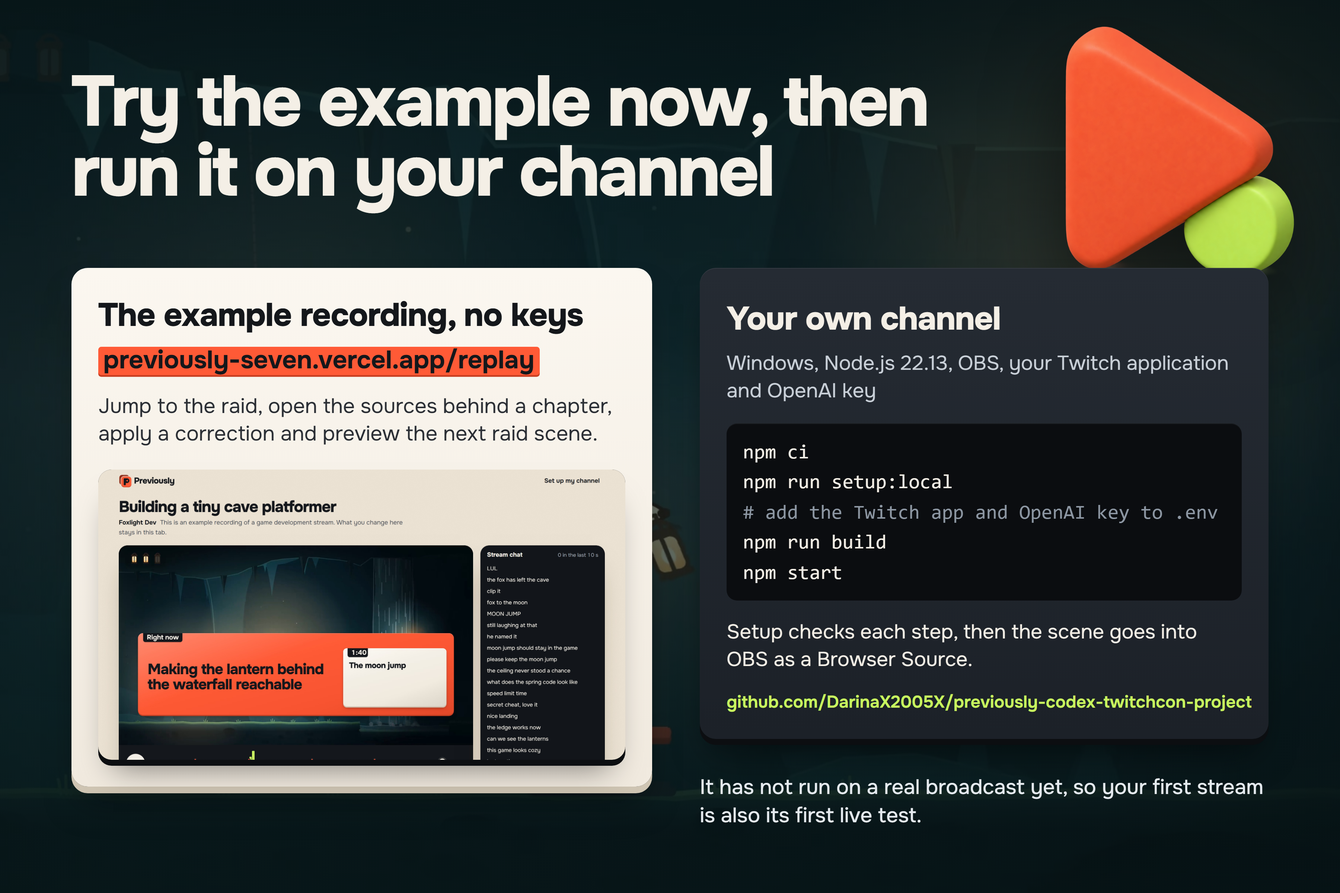
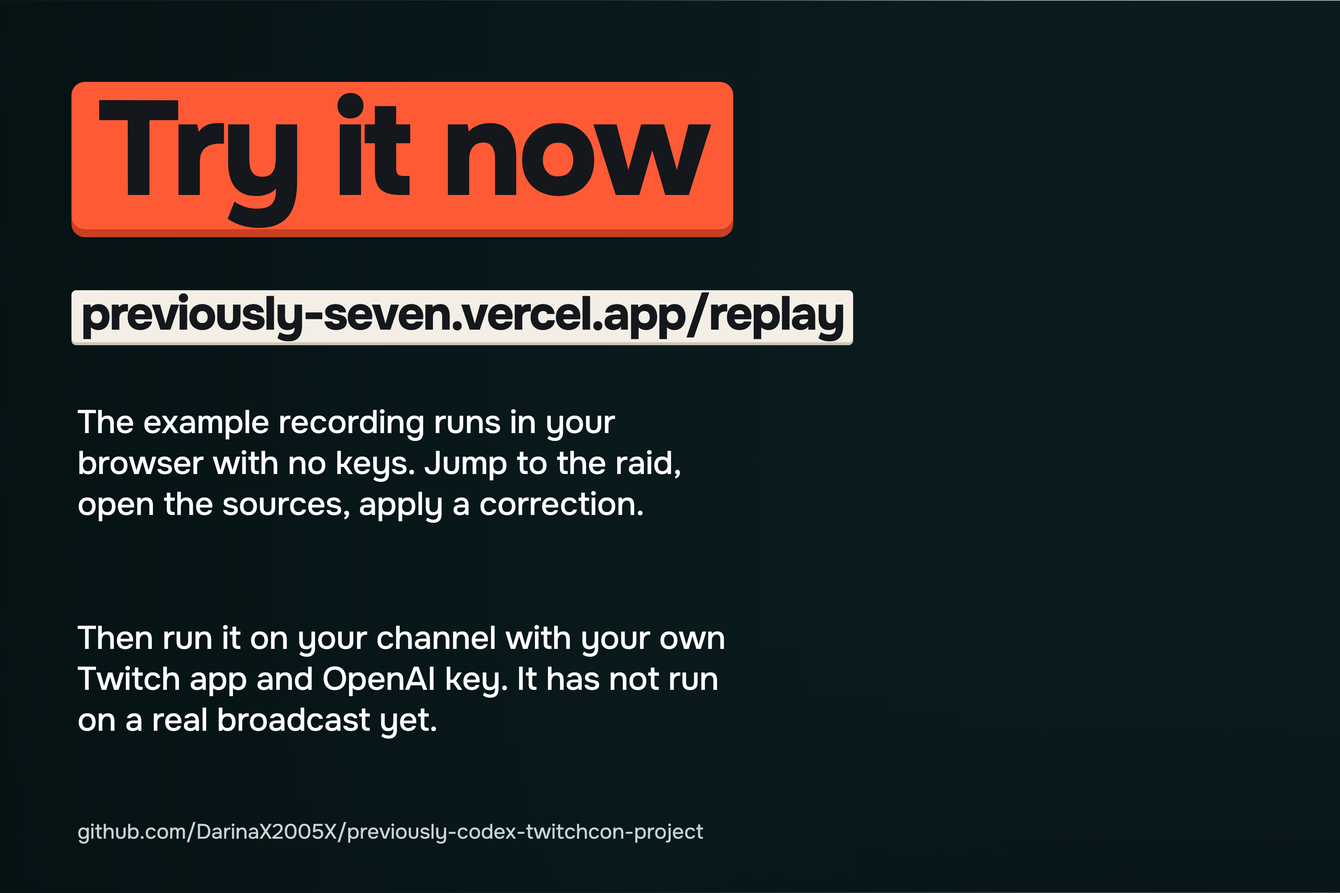
Gallery rebuilt in the cover's world: footage behind, big plates, little text

diff --git a/docs/gallery/source/deck.html b/docs/gallery/source/deck.html
@@ -139,6 +139,35 @@ img { display: block; }
   linear-gradient(160deg, #1D252B 0%, #14191E 55%, #0F1317 100%); }
 .ctl.p { background: var(--paper); color: var(--ink); box-shadow: 0 5px 0 var(--paper-side); }
 .mlabel { transform: translateX(-50%); font-size: 26px; white-space: nowrap; }
+
+.cw { background: #0B1C1F; color: var(--paper); }
+.cw .bg { position: absolute; left: 0; top: 0; width: 1800px; height: 1200px; object-fit: cover; }
+.cw .shade { position: absolute; inset: 0; }
+.pv, .pc, .pl, .pk { display: inline-block; font-weight: 800; letter-spacing: -.035em; line-height: .98; padding: .02em .2em .1em; border-radius: .1em; }
+.pv { background: var(--verm); color: var(--ink); box-shadow: 0 .06em 0 var(--verm-side); }
+.pc { background: var(--paper); color: var(--ink); box-shadow: 0 .06em 0 var(--paper-side); }
+.pl { background: var(--lime); color: var(--ink); box-shadow: 0 .06em 0 var(--lime-side); }
+.pk { background: var(--paper); color: var(--ink); font-size: 40px; margin-right: 14px; box-shadow: 0 .1em 0 var(--paper-side); }
+.lead.w { color: #FFFFFF; font-size: 44px; line-height: 1.25; font-weight: 500; }
+.foot { color: #C9D6D8; font-size: 28px; font-weight: 450; }
+.chatl { list-style: none; margin-top: 22px; display: grid; gap: 12px; font-size: 40px; font-weight: 650; line-height: 1.1; color: var(--ink); }
+.you { display: inline-block; background: #20262D; color: #C9D0D8; font-size: 36px; padding: 12px 22px 14px; border-radius: 14px; }
+.you b { color: var(--lime); }
+.wall { display: flex; flex-wrap: wrap; gap: 26px 22px; }
+.wall span { display: inline-block; background: var(--paper); color: var(--ink); font-weight: 800; font-size: 76px; letter-spacing: -.03em; line-height: 1; padding: 8px 20px 14px; border-radius: 12px; box-shadow: 0 6px 0 var(--paper-side); }
+.wall span[lang="ja"] { font-family: 'Yu Gothic', sans-serif; font-weight: 700; letter-spacing: 0; }
+.wall span[lang="ko"] { font-family: 'Malgun Gothic', sans-serif; font-weight: 700; letter-spacing: 0; }
+.wall span[lang="zh"] { font-family: 'Microsoft YaHei', sans-serif; font-weight: 700; letter-spacing: 0; }
+.strow { background: linear-gradient(180deg,#2A2F36,#1F242A); border-radius: 18px; padding: 22px 30px 26px; font-size: 52px; font-weight: 750; letter-spacing: -.02em; color: #F4EFE6; text-decoration: line-through; text-decoration-color: var(--verm); text-decoration-thickness: 8px; box-shadow: 0 7px 0 #07080A; }
+.tc { background: var(--ink); color: var(--paper); font-weight: 800; font-size: 40px; padding: 6px 16px 10px; border-radius: 10px; z-index: 3; }
+.num { font-variant-numeric: tabular-nums; }
+.tl { position: absolute; top: 40px; height: 120px; border-radius: 14px; display: flex; align-items: center; padding: 0 16px; overflow: hidden; box-shadow: 0 7px 0 rgba(0,0,0,.25); }
+.tl span { font-size: 30px; font-weight: 750; letter-spacing: -.01em; line-height: 1.05; }
+.tl-k { background: var(--ink); color: var(--paper); }
+.tl-v { background: var(--verm); color: var(--ink); }
+.tl-p { background: #FFFFFF; color: var(--ink); box-shadow: 0 7px 0 var(--paper-side); }
+.tl-l { background: var(--lime); color: var(--ink); }
+.tlt { position: absolute; top: 172px; font-size: 26px; font-weight: 650; color: var(--muted-paper); font-variant-numeric: tabular-nums; }
 </style>
 </head>
 <body>
@@ -162,33 +191,24 @@ img { display: block; }
 </section>
 
 <!-- ============ 01 LATE ARRIVALS ============ -->
-<section class="slide cv-teal" id="late-arrivals" data-out="01-late-arrivals">
-  <img class="abs obj" src="assets/art/bubble.png" style="left:860px; top:50px; width:960px;">
-  <div class="abs h1" style="left:96px; top:96px; width:900px; font-size:128px; color:#FFFFFF;">What did I&nbsp;miss?</div>
-  <div class="abs lead" style="left:100px; top:440px; width:640px; color:#FFFFFF; font-weight:500;">A raid drops a whole audience into the middle of a stream. They missed the jokes, the bugs and why chat keeps typing MOON JUMP.</div>
-  <div class="abs body" style="left:100px; top:760px; width:600px; color:#E3F3EF;">The streamer can stop to explain or keep playing and leave them lost. Previously answers for them: on stream, in chat and on a page.</div>
-  <div class="card" style="left:900px; top:640px; width:540px; padding:28px 30px 24px; transform: rotate(-2deg); box-shadow: 0 9px 0 var(--paper-side), 0 60px 90px -24px rgba(3,24,26,.7);">
-    <div style="display:flex; align-items:center; justify-content:space-between; gap:16px;">
-      <span style="font-size:28px; font-weight:700; color:var(--ink);">Chat at 1:40</span>
-      <span class="plate l" style="font-size:26px; font-weight:800; padding:6px 12px 8px; border-radius:9px;">45 messages in 10 s</span>
-    </div>
-    <ol style="list-style:none; margin-top:20px; display:grid; gap:11px; font-size:30px; line-height:1.15; font-weight:550; color:var(--ink);">
-      <li>MOON JUMP</li><li>he's gone</li><li>fox to the moon</li><li>the fox has left the cave</li><li>MOON JUMP MOON JUMP</li><li>where did he go</li>
-      <li style="color:var(--muted-paper);">and 39 more</li>
-    </ol>
+<section class="slide cw" id="late-arrivals" data-out="01-late-arrivals">
+  <img class="bg" src="../../../public/demo/foxlight/clip-moon.jpg" style="left:300px; width:1700px; height:1200px;">
+  <div class="shade" style="background: linear-gradient(90deg, rgba(6,18,20,.96) 0%, rgba(8,24,27,.85) 38%, rgba(8,24,27,.15) 66%, rgba(8,24,27,0) 80%), linear-gradient(0deg, rgba(6,18,20,.6), transparent 30%);"></div>
+  <div class="abs" style="left:96px; top:110px;"><span class="pv" style="font-size:180px;">What did</span><br><span class="pc" style="font-size:180px; margin-top:22px;">I miss?</span></div>
+  <div class="abs lead w" style="left:104px; top:640px; width:720px;">A raid drops a whole audience into the middle of the stream. Chat is typing a joke they were not there for.</div>
+  <div class="card" style="left:1130px; top:330px; width:600px; padding:30px 34px 26px; transform: rotate(3deg);">
+    <div style="display:flex; justify-content:space-between; align-items:center;"><span style="font-size:32px; font-weight:800;">Chat at 1:40</span><span class="pl" style="font-size:30px;">45 in 10 s</span></div>
+    <ol class="chatl"><li>MOON JUMP</li><li>he's gone</li><li>fox to the moon</li><li>MOON JUMP MOON JUMP</li><li>where did he go</li></ol>
   </div>
-  <div class="frame" style="left:1440px; top:880px; width:400px; height:225px; transform: rotate(3deg);"><img src="../../../public/demo/foxlight/clip-moon.jpg"></div>
-  <div class="abs small" style="left:100px; top:1090px; width:700px; color:#E3F3EF;">The moon jump in our example recording of Foxlight, a small game we made</div>
+  <div class="abs foot" style="left:104px; top:1100px;">The example recording, written around Foxlight, a small game we made</div>
 </section>
 
 <!-- ============ 02 RAID SCENE ============ -->
-<section class="slide cv-lime" id="raid-scene" data-out="02-raid-scene">
-  <div class="abs h1" style="left:96px; top:84px; width:1000px; font-size:100px;">Every raid gets its own <span class="plate k">Previously&nbsp;on</span></div>
-  <img class="abs obj" src="assets/art/megaphone.png" style="left:1250px; top:40px; width:520px; filter: drop-shadow(0 40px 50px rgba(40,60,0,.45));">
-  <div class="frame" style="left:96px; top:390px; width:1180px; height:664px; transform: rotate(-1.5deg); box-shadow: 0 14px 0 #07080A, 0 80px 120px -40px rgba(40,60,0,.7);"><img src="assets/scene/moon.jpg"></div>
-  <div class="icard" style="left:1330px; top:560px; width:374px; padding:34px 28px 26px; transform: rotate(2deg);"><span class="stab" style="background:var(--lime);">Raid at 7:10</span><p style="font-size:44px; font-weight:800; letter-spacing:-.02em; line-height:1.05;">pixelmoth</p><p style="font-size:30px; margin-top:8px; color:#C9D0D8;">37 viewers arrive</p></div>
-  <div class="abs body" style="left:1334px; top:800px; width:380px; color:var(--ink);">The scene starts the moment the raid lands, built from chapters already published, with the stream's own clips.</div>
-  <div class="abs small" style="left:100px; top:1100px; width:1180px; color:#2E3A12;">The example recording's raid scene. Its chat and raid are written for the demo; the clips are real footage of Foxlight, our small game.</div>
+<section class="slide cw" id="raid-scene" data-out="02-raid-scene">
+  <img class="bg" src="assets/scene/moon.jpg" style="left:0; top:120px; width:1800px; height:1013px;">
+  <div class="shade" style="background: linear-gradient(180deg, rgba(6,18,20,.97) 0%, rgba(6,18,20,.85) 22%, rgba(6,18,20,0) 46%), linear-gradient(0deg, rgba(6,18,20,.9), transparent 12%);"></div>
+  <div class="abs" style="left:96px; top:70px;"><span class="pc" style="font-size:132px;">Every raid gets its own</span><br><span class="pv" style="font-size:132px; margin-top:18px;">Previously on</span></div>
+  <div class="abs foot" style="left:104px; top:1140px;">The real raid scene from the example recording: the moon jump clip, its caption and chat's reaction</div>
 </section>
 
 <!-- ============ 03 SCENE SEQUENCE ============ -->
@@ -204,168 +224,117 @@ img { display: block; }
     </div>
     <div class="holes b"></div>
   </div>
-  <div class="abs small muted-paper" style="left:100px; top:1030px; width:1600px;">Hard cuts between the chapter clips, each with its caption. The example's recap runs 44 seconds; streamers choose up to 30 seconds, 1 minute or 2 minutes.</div>
+  
+
+  <div class="abs" style="left:0; top:900px; width:1800px; height:240px;"><div class="tl tl-v" style="left:114px; width:104px;"><span>Intro</span></div><div class="tl tl-p" style="left:224px; width:341px;"><span>Fox learns to jump</span></div><div class="tl tl-p" style="left:571px; width:378px;"><span>The moon jump</span></div><div class="tl tl-p" style="left:955px; width:341px;"><span>Spring gets a speed limit</span></div><div class="tl tl-v" style="left:1302px; width:323px;"><span>Right now</span></div><div class="tl tl-l" style="left:1631px; width:67px;"><span></span></div><span class="abs" style="left:1481px; top:0; font-size:28px; font-weight:750; color:var(--ink);">!previously</span><span class="tlt" style="left:96px;">0:00</span><span class="tlt" style="left:461px;">0:10</span><span class="tlt" style="left:827px;">0:20</span><span class="tlt" style="left:1192px;">0:30</span><span class="tlt" style="left:1558px;">0:40</span></div>
+  <div class="abs small muted-paper" style="left:100px; top:1140px; width:1600px;">The example's whole recap, 44 seconds. Streamers choose up to 30 seconds, 1 minute or 2 minutes.</div>
 </section>
 
 <!-- ============ 04 CHAT COMMAND ============ -->
-<section class="slide cv-night" id="chat-command" data-out="04-chat-command">
-  <img class="abs obj" src="assets/art/keycap.png" style="left:20px; top:640px; width:600px;">
-  <div class="abs h1" style="left:96px; top:96px; width:820px; font-size:96px;">Anyone who joins late can type <span class="plate l">!previously</span></div>
-  <div class="abs lead" style="left:100px; top:430px; width:740px; color:#E6EBF0;">Chat gets the latest chapters, what is happening now and a link to the recap page.</div>
-  <div class="frame" style="left:930px; top:110px; width:770px; height:853px; border-radius:34px; transform: rotate(2deg); box-shadow: 0 14px 0 #07080A, 0 60px 90px -30px rgba(0,0,0,.7), 0 0 0 2px rgba(255,255,255,.06);"><img src="assets/app/landing-chat.png" style="object-fit:cover; object-position: top;"></div>
-  <div class="abs body" style="left:940px; top:1010px; width:760px; color:#E6EBF0;"><b style="color:var(--lime);">!lore moon jump</b> explains a joke only when its origin is in the sources.</div>
+<section class="slide cw" id="chat-command" data-out="04-chat-command">
+  <img class="bg" src="assets/game/game-jump.jpg">
+  <div class="shade" style="background: linear-gradient(90deg, rgba(6,18,20,.95) 0%, rgba(6,18,20,.8) 50%, rgba(6,18,20,.55) 100%);"></div>
+  <div class="abs" style="left:96px; top:110px;"><span class="pc" style="font-size:120px;">Late? Type</span><br><span class="pl" style="font-size:180px; margin-top:20px;">!previously</span></div>
+  <div class="abs lead w" style="left:104px; top:640px; width:780px;">The bot answers in chat with the latest chapters, what is happening now and a link to the recap.</div>
+  <div class="abs" style="left:960px; top:560px; width:750px;">
+    <div class="you">you <b>!lore moon jump</b></div>
+    <div class="card" style="position:relative; padding:30px 34px; margin-top:20px;"><p style="margin:0; font-size:38px; line-height:1.3; color:var(--ink);"><b style="color:var(--verm-side);">Foxlight Dev</b> moon jump: When the spring had no speed limit, it launched the fox through the ceiling, and chat named it the moon jump.</p></div>
+  </div>
+  <div class="abs foot" style="left:104px; top:1100px;">A real reply from the example recording, written by the chat bot's own code</div>
 </section>
 
 <!-- ============ 05 RECAP PAGE ============ -->
-<section class="slide cv-teal" id="recap-page" data-out="05-recap-page">
-  <div class="abs h1" style="left:96px; top:96px; width:820px; font-size:96px; color:#FFFFFF;">The story so far, on a page anyone can open</div>
-  <div class="abs" style="left:100px; top:430px; width:640px; display:grid; gap:22px; color:#FFFFFF;">
-    <p class="body"><b>Right now first,</b> then the chapters with their clips.</p>
-    <p class="body"><b>Read up to here</b> stops the story where you are, so nothing gets spoiled.</p>
-    <p class="body"><b>No account.</b> Only published chapters leave the streamer's computer.</p>
-  </div>
-  <img class="abs obj" src="assets/art/bookmark.png" style="left:110px; top:860px; width:600px; filter: drop-shadow(0 40px 50px rgba(3,24,26,.5));">
-  <div class="phone" style="left:830px; top:290px; transform: rotate(-5deg) scale(.92); transform-origin: top left;"><div class="scr"><img src="assets/app/public-phone-chapters.png" style="top:0;"></div></div>
-  <div class="phone" style="left:1240px; top:140px; transform: rotate(4deg);"><div class="scr"><img src="assets/app/public-phone.png" style="top:0;"></div></div>
+<section class="slide cw" id="recap-page" data-out="05-recap-page">
+  <img class="bg" src="assets/game/game-waterfall.jpg" style="left:-300px; width:2134px; height:1200px;">
+  <div class="shade" style="background: linear-gradient(90deg, rgba(6,18,20,.96) 0%, rgba(8,24,27,.86) 45%, rgba(8,24,27,.3) 100%);"></div>
+  <div class="abs" style="left:96px; top:110px;"><span class="pc" style="font-size:132px;">The story</span><br><span class="pv" style="font-size:132px; margin-top:18px;">so far</span></div>
+  <div class="abs lead w" style="left:104px; top:560px; width:740px;">A page anyone can open without an account. Right now first, then the chapters with their clips. Read up to here stops spoilers.</div>
+  <div class="phone" style="left:1020px; top:110px; transform: scale(1.32) rotate(3deg); transform-origin: top left;"><div class="scr"><img src="assets/app/public-phone.png" style="top:0;"></div></div>
 </section>
 
 <!-- ============ 06 ANY LANGUAGE ============ -->
-<section class="slide cv-paper" id="any-language" data-out="06-any-language">
-  <img class="abs obj" src="assets/art/bubbles-stack.png" style="left:150px; top:470px; height:820px; filter: drop-shadow(0 40px 50px rgba(120,60,20,.25));">
-  <div class="abs h1" style="left:96px; top:90px; width:720px; font-size:88px;">Recaps in your stream's language</div>
-  <div class="abs body" style="left:100px; top:310px; width:640px;">Pick any language. The model writes the chapters in it, and the scene and chat bot labels come in 14 languages.</div>
-  <div class="abs small muted-paper" style="left:860px; top:110px; width:844px;">How the raid scene opens in each built-in language</div>
-  <div class="abs langs" style="left:860px; top:180px; width:844px;">
-    <div><b>Previously</b><i>English</i></div>
-    <div><b>Ранее</b><i>Русский</i></div>
-    <div><b>Anteriormente</b><i>Español</i></div>
-    <div><b>Раніше</b><i>Українська</i></div>
-    <div><b>Anteriormente</b><i>Português</i></div>
-    <div><b>Bisher</b><i>Deutsch</i></div>
-    <div><b>Précédemment</b><i>Français</i></div>
-    <div><b>In precedenza</b><i>Italiano</i></div>
-    <div><b>Wcześniej</b><i>Polski</i></div>
-    <div><b>Daha önce</b><i>Türkçe</i></div>
-    <div><b lang="ja">これまでの配信</b><i>日本語</i></div>
-    <div><b lang="ko">지난 이야기</b><i>한국어</i></div>
-    <div><b lang="zh-Hans">前情提要</b><i>简体中文</i></div>
-    <div><b lang="zh-Hant">前情提要</b><i>繁體中文</i></div>
+<section class="slide cw" id="any-language" data-out="06-any-language">
+  <img class="bg" src="../../../public/demo/foxlight/clip-lanterns.jpg">
+  <div class="shade" style="background: rgba(6,18,20,.84);"></div>
+  <div class="abs" style="left:96px; top:90px;"><span class="pv" style="font-size:150px;">Previously</span><br><span class="pc" style="font-size:96px; margin-top:16px;">in your stream's language</span></div>
+  <div class="abs wall" style="left:96px; top:480px; width:1620px;">
+    <span>Ранее</span><span>Anteriormente</span><span>Bisher</span><span>Précédemment</span><span>In precedenza</span><span>Wcześniej</span><span>Daha önce</span><span>Раніше</span><span lang="ja">これまでの配信</span><span lang="ko">지난 이야기</span><span lang="zh">前情提要</span>
   </div>
-  <div class="abs small muted-paper" style="left:860px; top:1100px; width:844px;">English is the default. The example recording holds English and Russian wording.</div>
+  <div class="abs lead w" style="left:104px; top:1010px; width:1600px;">Any language for the chapters. Scene and bot labels are built in for 14. English is the default.</div>
 </section>
 
 <!-- ============ 07 STREAMER DOCK ============ -->
-<section class="slide cv-lime" id="streamer-dock" data-out="07-streamer-dock">
-  <div class="abs h1" style="left:96px; top:84px; width:1640px; font-size:88px; white-space:nowrap;">The streamer stays in control from&nbsp;OBS</div>
-  <div class="frame" style="left:480px; top:250px; width:640px; height:620px; border-radius:28px; box-shadow: 0 14px 0 #07080A, 0 80px 120px -40px rgba(60,30,10,.6);"><img src="assets/app/dock.png" style="height:auto; margin-top:-59px;"></div>
-  <div class="frame" style="left:1180px; top:290px; width:524px; height:573px; transform: rotate(2.5deg); box-shadow: 0 12px 0 var(--paper-side), 0 70px 100px -36px rgba(60,30,10,.55);"><img src="assets/app/dock-edit.png"></div>
-  <svg class="abs" style="left:0; top:0; z-index:2;" width="1800" height="1200" viewBox="0 0 1800 1200" fill="none" stroke="#14171B" stroke-width="3" stroke-linecap="round">
-    <path d="M440 560 C 470 560, 480 591, 504 591"/>
-    <path d="M440 790 C 470 790, 480 737, 504 737"/>
-    <path d="M953 770 L 953 930"/>
-  </svg>
-  <span class="dot" style="left:504px; top:591px;"></span>
-  <span class="dot" style="left:504px; top:737px;"></span>
-  <span class="dot" style="left:953px; top:770px;"></span>
-  <div class="co" style="left:96px; top:470px; width:340px;"><span class="ctl k">Show recap</span><p>Plays the raid scene in OBS on demand.</p></div>
-  <div class="co" style="left:96px; top:716px; width:340px;"><span class="ctl k">Pause listening</span><p>Stops the microphone and chat collection at once.</p></div>
-  <div class="co" style="left:760px; top:940px; width:380px;"><span class="ctl v">Forget last 2 min</span><p>Erases that window and everything built from it.</p></div>
-  <div class="co" style="left:1240px; top:925px; width:464px;"><span class="ctl k">Edit</span><p>Your wording replaces the chapter everywhere. Later rewrites leave it alone.</p></div>
+<section class="slide cw" id="streamer-dock" data-out="07-streamer-dock">
+  <img class="bg" src="assets/game/game-jump.jpg">
+  <div class="shade" style="background: linear-gradient(90deg, rgba(6,18,20,.96) 0%, rgba(6,18,20,.85) 55%, rgba(6,18,20,.6) 100%);"></div>
+  <div class="abs" style="left:96px; top:110px;"><span class="pc" style="font-size:132px;">The streamer</span><br><span class="pv" style="font-size:132px; margin-top:18px;">stays in control</span></div>
+  <div class="abs" style="left:104px; top:560px; width:780px; display:grid; gap:30px;">
+    <p class="lead w"><span class="pk">Edit</span> your wording replaces the chapter everywhere</p>
+    <p class="lead w"><span class="pk">Pause</span> stops the microphone and chat at once</p>
+    <p class="lead w"><span class="pv" style="font-size:40px;">Forget</span> erases the last 2 minutes</p>
+  </div>
+  <div class="frame" style="left:1100px; top:120px; width:610px; height:1160px; border-radius:30px; transform: rotate(2deg);"><img src="assets/app/dock.png" style="height:auto; margin-top:-56px;"></div>
 </section>
 
 <!-- ============ 08 FIX ONCE ============ -->
-<section class="slide cv-night" id="fix-once" data-out="08-fix-once">
-  <div class="abs h1" style="left:96px; top:84px; width:960px; font-size:88px;">Fix a chapter once, and every place uses your wording</div>
-  <div class="card" style="left:96px; top:470px; width:420px; padding:34px 28px 26px; transform: rotate(-2deg);"><span class="tab">3:30</span><h3><span class="strike">Spring gets a speed limit</span></h3><p style="color:var(--muted-paper);">Replaced</p></div>
-  <svg class="abs" style="left:0; top:0;" width="1800" height="1200" viewBox="0 0 1800 1200" fill="none" stroke="#14171B" stroke-width="4" stroke-linecap="round" stroke-linejoin="round"><path stroke="#F4EFE6" d="M530 570 C 565 570, 570 610, 604 612"/><path stroke="#F4EFE6" d="M588 598 L 606 612 L 588 626"/></svg>
-  <div class="card" style="left:620px; top:520px; width:440px; padding:34px 28px 26px; transform: rotate(1.5deg);"><span class="tab">3:30</span><h3>Moon jump becomes a cheat code</h3><p style="color:var(--verm-side); font-weight:700;">Applied</p></div>
-  <div class="icard" style="left:96px; top:830px; width:964px; padding:26px 30px;"><p style="font-size:32px; font-weight:650; line-height:1.3;"><span style="color:var(--lime);">Published.</span> The recap page, the chat answer and the next raid scene use your wording.</p></div>
-  <div class="abs body" style="left:100px; top:1030px; width:960px; color:#E6EBF0;">The old wording is withdrawn everywhere at once.</div>
-  <div class="frame" style="left:1160px; top:470px; width:520px; height:470px; transform: rotate(3deg); background:#1B4A4A;"><img src="assets/app/recap-corrected.png" style="position:absolute; width:1300px; height:auto; left:-870px; top:-80px; object-fit:fill;"></div>
-  <img class="abs obj" src="assets/art/stamp.png" style="left:1320px; top:20px; width:430px; filter: drop-shadow(0 40px 50px rgba(0,0,0,.55));">
-  <div class="abs small" style="left:1164px; top:990px; width:540px; color:#C9D0D8;">The example's recap right after Apply my wording, marked as edited by the streamer.</div>
+<section class="slide cw" id="fix-once" data-out="08-fix-once">
+  <img class="bg" src="../../../public/demo/foxlight/clip-fixed.jpg">
+  <div class="shade" style="background: linear-gradient(90deg, rgba(6,18,20,.96) 0%, rgba(6,18,20,.85) 50%, rgba(6,18,20,.55) 100%);"></div>
+  <div class="abs" style="left:96px; top:110px;"><span class="pv" style="font-size:150px;">Fix it once</span><br><span class="pc" style="font-size:110px; margin-top:18px;">every place updates</span></div>
+  <div class="card" style="left:96px; top:560px; width:600px; padding:40px 36px 32px; transform: rotate(-2deg);"><span class="tab" style="font-size:30px;">3:30</span><h3 style="font-size:52px;">Moon jump becomes a cheat code</h3><p style="font-size:30px; color:var(--verm-side); font-weight:700;">Edited by the streamer</p></div>
+  <div class="abs" style="left:820px; top:560px; display:grid; gap:26px;">
+    <span class="pc" style="font-size:64px;">Recap page</span>
+    <span class="pc" style="font-size:64px;">Chat answer</span>
+    <span class="pc" style="font-size:64px;">Next raid scene</span>
+  </div>
+  <div class="abs lead w" style="left:104px; top:1010px; width:1500px;">The old wording is withdrawn everywhere at once.</div>
 </section>
 
 <!-- ============ 09 HOW IT WORKS ============ -->
-<section class="slide cv-paper" id="how-it-works" data-out="09-how-it-works">
-  <img class="abs obj" src="assets/art/hourglass.png" style="left:610px; top:270px; height:840px; filter: drop-shadow(0 50px 60px rgba(120,50,20,.25));">
-  <div class="abs h1" style="left:96px; top:90px; width:1500px; font-size:104px; white-space:nowrap;">Every sentence waits <span class="plate v">75 seconds</span></div>
-  <div class="abs body" style="left:100px; top:300px; width:520px;">The model only proposes. Code on the streaming computer checks each sentence against its sources, holds it, then publishes one version that every output reads.</div>
-  <div class="abs body" style="left:100px; top:760px; width:500px;"><b>During the hold</b> the streamer can edit it or forget it before anyone sees it.</div>
-  <div class="abs tag muted-paper" style="left:1236px; top:270px;">What it heard</div>
-  <div class="icard" style="left:1236px; top:330px; width:468px; padding:32px 26px 22px;"><span class="stab" style="background:var(--verm);">Heard at 5:40</span><p style="font-size:29px; line-height:1.3;">Two lanterns work. The third one is behind the waterfall.</p></div>
-  <div class="icard" style="left:1236px; top:500px; width:468px; padding:32px 26px 22px;"><span class="stab" style="background:var(--lime);">Chat at 5:44</span><p style="font-size:29px;">where is the third one</p></div>
-  <div class="abs" style="left:1236px; top:650px; display:flex; flex-wrap:wrap; gap:14px; width:468px;">
-    <span class="ctl k">Grounded in sources</span><span class="ctl k">Moderation</span><span class="ctl k">Privacy</span>
-  </div>
-  <div class="abs tag muted-paper" style="left:1236px; top:790px;">What the scene, chat and page show</div>
-  <div class="card" style="left:1236px; top:860px; width:468px;"><span class="tab">5:20</span><h3>Lanterns light the cave</h3><p>Two lanterns work, and the third one is behind the waterfall.</p></div>
-  
+<section class="slide cw" id="how-it-works" data-out="09-how-it-works">
+  <img class="bg" src="assets/game/game-leap.jpg">
+  <div class="shade" style="background: linear-gradient(90deg, rgba(6,18,20,.96) 0%, rgba(6,18,20,.86) 55%, rgba(6,18,20,.6) 100%);"></div>
+  <div class="abs" style="left:96px; top:90px;"><span class="pc" style="font-size:110px;">Every sentence waits</span></div>
+  <div class="abs" style="left:96px; top:270px;"><span class="pv" style="font-size:330px; letter-spacing:-.05em;">75 s</span></div>
+  <div class="abs lead w" style="left:104px; top:720px; width:760px;">The model only proposes. Code checks each sentence against what was said or typed, then holds it so the streamer can fix or forget it first.</div>
+  <div class="icard" style="left:1000px; top:330px; width:704px; padding:38px 32px 28px;"><span class="stab" style="background:var(--verm); font-size:28px;">Heard at 5:40</span><p style="font-size:38px; line-height:1.3;">Two lanterns work. The third one is behind the waterfall.</p></div>
+  <div class="card" style="left:1000px; top:660px; width:704px; padding:40px 34px 30px;"><span class="tab" style="font-size:28px;">Published</span><h3 style="font-size:50px;">Lanterns light the cave</h3><p style="font-size:32px;">Two lanterns work, and the third one is behind the waterfall.</p></div>
 </section>
 
 <!-- ============ 10 FORGET ============ -->
-<section class="slide cv-ember" id="forget" data-out="10-forget">
-  <div class="abs h1" style="left:96px; top:90px; width:880px; font-size:76px;">Forget follows the sources into everything built from them</div>
-  <div class="frame" style="left:96px; top:470px; width:720px; height:473px; transform: rotate(-2deg); box-shadow: 0 12px 0 var(--paper-side), 0 60px 90px -30px rgba(0,0,0,.8);"><img src="assets/app/dock-forget.png"></div>
-  <div class="abs body" style="left:100px; top:1010px; width:840px; color:#F6D9CF;">A model reply or a language switch that finishes later cannot bring the text back. Pins do not protect anything.</div>
-  <svg class="abs" style="left:0; top:0;" width="1800" height="1200" viewBox="0 0 1800 1200" fill="none" stroke="#FF8A6B" stroke-width="3" stroke-linecap="round" opacity=".7">
-    <path d="M1090 400 L 1090 1005"/>
-    <path d="M1090 485 L 1150 485"/><path d="M1090 589 L 1150 589"/><path d="M1090 693 L 1150 693"/><path d="M1090 797 L 1150 797"/><path d="M1090 901 L 1150 901"/><path d="M1090 1005 L 1150 1005"/>
-  </svg>
-  <div class="card" style="left:1000px; top:250px; width:704px; padding:34px 28px 26px;"><span class="tab v">Heard at 5:20</span><p style="margin:0; font-size:28px; color:var(--ink);"><span class="strike">Next, lanterns. The spring no longer launches the fox to the moon, so the fox can reach them.</span></p></div>
-  <img class="abs obj" src="assets/art/eraser.png" style="left:1440px; top:130px; width:440px; transform: rotate(-10deg); filter: drop-shadow(0 40px 50px rgba(20,4,2,.55));">
-  <div class="abs" style="left:1150px; top:450px; display:grid; gap:34px; width:554px;">
-    <div class="icard row"><span class="strike">The chapter built on it</span></div>
-    <div class="icard row"><span class="strike">Its translations</span></div>
-    <div class="icard row"><span class="strike">Channel terms it explained</span></div>
-    <div class="icard row"><span class="strike">Clips in the local cache</span></div>
-    <div class="icard row"><span class="strike">Queued raid scenes</span></div>
-    <div class="icard row"><span class="strike">Recordings and exports</span></div>
+<section class="slide cw" id="forget" data-out="10-forget">
+  <img class="bg" src="../../../public/demo/foxlight/clip-run.jpg">
+  <div class="shade" style="background: linear-gradient(90deg, rgba(20,6,4,.96) 0%, rgba(30,8,5,.88) 55%, rgba(30,8,5,.7) 100%);"></div>
+  <div class="abs" style="left:96px; top:110px;"><span class="pv" style="font-size:180px;">Forget</span><br><span class="pc" style="font-size:96px; margin-top:20px;">reaches everything</span></div>
+  <div class="abs lead w" style="left:104px; top:620px; width:700px;">Forget the last 2 minutes and every result built on them goes too. A late model reply cannot bring it back.</div>
+  <div class="abs" style="left:960px; top:150px; display:grid; gap:28px; width:744px;">
+    <div class="strow">The chapters</div><div class="strow">Translations</div><div class="strow">Channel terms</div><div class="strow">Clips in the cache</div><div class="strow">Queued raid scenes</div><div class="strow">Recordings and exports</div>
   </div>
-  <div class="abs small" style="left:1000px; top:1100px; width:704px; color:#F6D9CF;">A clip Twitch already made stays on Twitch; Previously hides it and links to the clip manager.</div>
+  <div class="abs foot" style="left:104px; top:1100px;">A clip Twitch already made stays on Twitch; Previously hides it and links to the clip manager.</div>
 </section>
 
 <!-- ============ 11 BUILT WITH CODEX ============ -->
-<section class="slide cv-ink" id="built-with-codex" data-out="11-built-with-codex">
-  <div class="abs h1" style="left:96px; top:90px; width:860px; font-size:76px;">Built in one Codex session, from research to tested code</div>
-  <div class="abs body" style="left:100px; top:350px; width:780px; color:#E6EBF0;">Codex researched the current Twitch and OpenAI contracts, planned the architecture and wrote the code and its tests. Parallel workers built the parts; the main session joined them.</div>
-  <img class="abs obj" src="assets/art/modules.png" style="left:96px; top:640px; width:800px; filter: drop-shadow(0 40px 50px rgba(0,0,0,.5));">
-  <svg class="abs" style="left:0; top:0;" width="1800" height="1200" viewBox="0 0 1800 1200" fill="none" stroke="#C9D0D8" stroke-width="3" stroke-linecap="round"><path d="M232 622 L 232 680"/><path d="M403 622 L 403 662"/><path d="M581 622 L 581 707"/><path d="M747 622 L 747 754"/></svg>
-  <span class="abs ctl p mlabel" style="left:232px; top:570px;">Runtime</span><span class="abs ctl p mlabel" style="left:403px; top:570px;">Storage</span><span class="abs ctl p mlabel" style="left:581px; top:570px;">Twitch</span><span class="abs ctl p mlabel" style="left:747px; top:570px;">Interface</span>
-  <div class="abs small" style="left:100px; top:1080px; width:860px; color:#C9D0D8;">Claude agents made the visual pass: mark, scene and pages.</div>
-  <div class="abs" style="left:1000px; top:96px; width:704px; display:grid; gap:30px;">
-    <div><span class="num plate p" style="font-size:92px;">1,000 of 1,000</span><p class="body" style="margin-top:18px; color:#E6EBF0;">chat messages committed through the real EventSub transport and SQLite at 20 per second, with no gaps.</p></div>
-    <div><span class="num plate l" style="font-size:92px;">577,200</span><p class="body" style="margin-top:18px; color:#E6EBF0;">messages through the story core over eight virtual hours, including a burst at 200 per second.</p></div>
-    <div class="icard" style="position:relative; padding:26px 28px;"><p style="font-size:30px; font-weight:700;">Reviews caught real bugs</p>
-      <ul style="margin-top:12px; padding-left:28px; font-size:27px; line-height:1.34; color:#E6EBF0; display:grid; gap:8px;">
-        <li>A full chat queue could drop a deletion that had arrived</li>
-        <li>A failed microphone pause reported success</li>
-        <li>A chat flood pushed speech out of the story after an outage</li>
-      </ul></div>
+<section class="slide cw" id="built-with-codex" data-out="11-built-with-codex">
+  <img class="bg" src="assets/game/game-waterfall.jpg">
+  <div class="shade" style="background: rgba(6,18,20,.88);"></div>
+  <div class="abs" style="left:96px; top:90px;"><span class="pc" style="font-size:120px;">Built with</span><br><span class="pv" style="font-size:180px; margin-top:16px;">Codex</span></div>
+  <div class="abs lead w" style="left:104px; top:620px; width:760px;">One session: research, architecture, code and tests, with parallel workers for runtime, storage, Twitch and interface.</div>
+  <div class="abs" style="left:960px; top:120px; width:744px; display:grid; gap:40px;">
+    <div><span class="pc num" style="font-size:100px; white-space:nowrap;">1,000 of 1,000</span><p class="lead w" style="margin-top:16px;">chat messages committed at 20 per second, no gaps</p></div>
+    <div><span class="pl num" style="font-size:100px;">577,200</span><p class="lead w" style="margin-top:16px;">messages through the story core over 8 virtual hours</p></div>
   </div>
-  <div class="abs small" style="left:1000px; top:1080px; width:704px; color:#C9D0D8;">Measured on one Windows machine with fixtures in place of Twitch sockets and the OpenAI API.</div>
+  <div class="abs foot" style="left:104px; top:1060px; width:1600px;">Measured on one machine with fixtures in place of Twitch and OpenAI. Claude agents made the visual pass.</div>
 </section>
 
 <!-- ============ 12 RUN IT ============ -->
-<section class="slide cv-cave" id="run-it" data-out="12-run-it">
-  <img class="abs" src="assets/game/game-jump.jpg" style="left:0; top:0; width:1800px; height:1200px; object-fit:cover; opacity:.7;">
-  <div class="abs" style="inset:0; background: linear-gradient(180deg, rgba(7,21,23,.72), rgba(7,21,23,.35) 45%, rgba(7,21,23,.8)), radial-gradient(700px 500px at 85% 15%, rgba(255,176,96,.18), transparent 70%);"></div>
-  <div class="abs h1" style="left:96px; top:90px; width:1200px; font-size:96px;">Try the example now, then run it on your&nbsp;channel</div>
-  <img class="abs obj" src="assets/art/play.png" style="left:1420px; top:24px; width:330px; filter: drop-shadow(0 40px 50px rgba(0,0,0,.5));">
-  <div class="card" style="left:96px; top:360px; width:780px; padding:40px 36px 36px;">
-    <h3 style="font-size:44px;">The example recording, no keys</h3>
-    <div style="margin-top:20px;"><span class="plate v" style="font-size:34px; font-weight:700;">previously-seven.vercel.app/replay</span></div>
-    <p style="font-size:28px; margin-top:24px;">Jump to the raid, open the sources behind a chapter, apply a correction and preview the next raid scene.</p>
-    <div class="frame" style="position:relative; margin-top:28px; height:390px; border-radius:18px; box-shadow: 0 8px 0 #0C0E11, 0 30px 40px -20px rgba(0,0,0,.5);"><img src="assets/app/replay-raid.jpg" style="object-position: 0 0;"></div>
-  </div>
-  <div class="icard" style="left:940px; top:360px; width:764px; padding:40px 36px 34px;">
-    <h3 style="font-size:44px; font-weight:800; letter-spacing:-.02em;">Your own channel</h3>
-    <p style="margin-top:14px; font-size:27px; line-height:1.38; color:#C9D0D8;">Windows, Node.js 22.13, OBS, your Twitch application and OpenAI key</p>
-    <div class="code" style="margin-top:24px;">npm ci<br>npm run setup:local<br><span style="color:#8D97A3;"># add the Twitch app and OpenAI key to .env</span><br>npm run build<br>npm start</div>
-    <p style="font-size:27px; line-height:1.38; margin-top:24px;">Setup checks each step, then the scene goes into OBS as a Browser Source.</p>
-    <p style="font-size:23px; line-height:1.38; margin-top:22px; color:var(--lime); font-weight:650; white-space:nowrap;">github.com/DarinaX2005X/previously-codex-twitchcon-project</p>
-  </div>
-  <div class="abs body" style="left:940px; top:1040px; width:764px; color:#E6EBF0; font-size:28px;">It has not run on a real broadcast yet, so your first stream is also its first live test.</div>
+<section class="slide cw" id="run-it" data-out="12-run-it">
+  <img class="bg" src="assets/game/game-leap.jpg" style="left:-200px; width:2134px; height:1200px;">
+  <div class="shade" style="background: linear-gradient(90deg, rgba(6,18,20,.96) 0%, rgba(8,24,27,.86) 45%, rgba(8,24,27,.2) 75%, rgba(8,24,27,.1) 100%), linear-gradient(0deg, rgba(6,18,20,.6), transparent 30%);"></div>
+  <div class="abs" style="left:96px; top:110px;"><span class="pv" style="font-size:180px;">Try it now</span></div>
+  <div class="abs" style="left:96px; top:390px;"><span class="pc" style="font-size:64px;">previously-seven.vercel.app/replay</span></div>
+  <div class="abs lead w" style="left:104px; top:540px; width:820px;">The example recording runs in your browser with no keys. Jump to the raid, open the sources, apply a correction.</div>
+  <div class="abs lead w" style="left:104px; top:830px; width:900px;">Then run it on your channel with your own Twitch app and OpenAI key. It has not run on a real broadcast yet.</div>
+  <div class="abs foot" style="left:104px; top:1100px;">github.com/DarinaX2005X/previously-codex-twitchcon-project</div>
 </section>
 
 </body>
